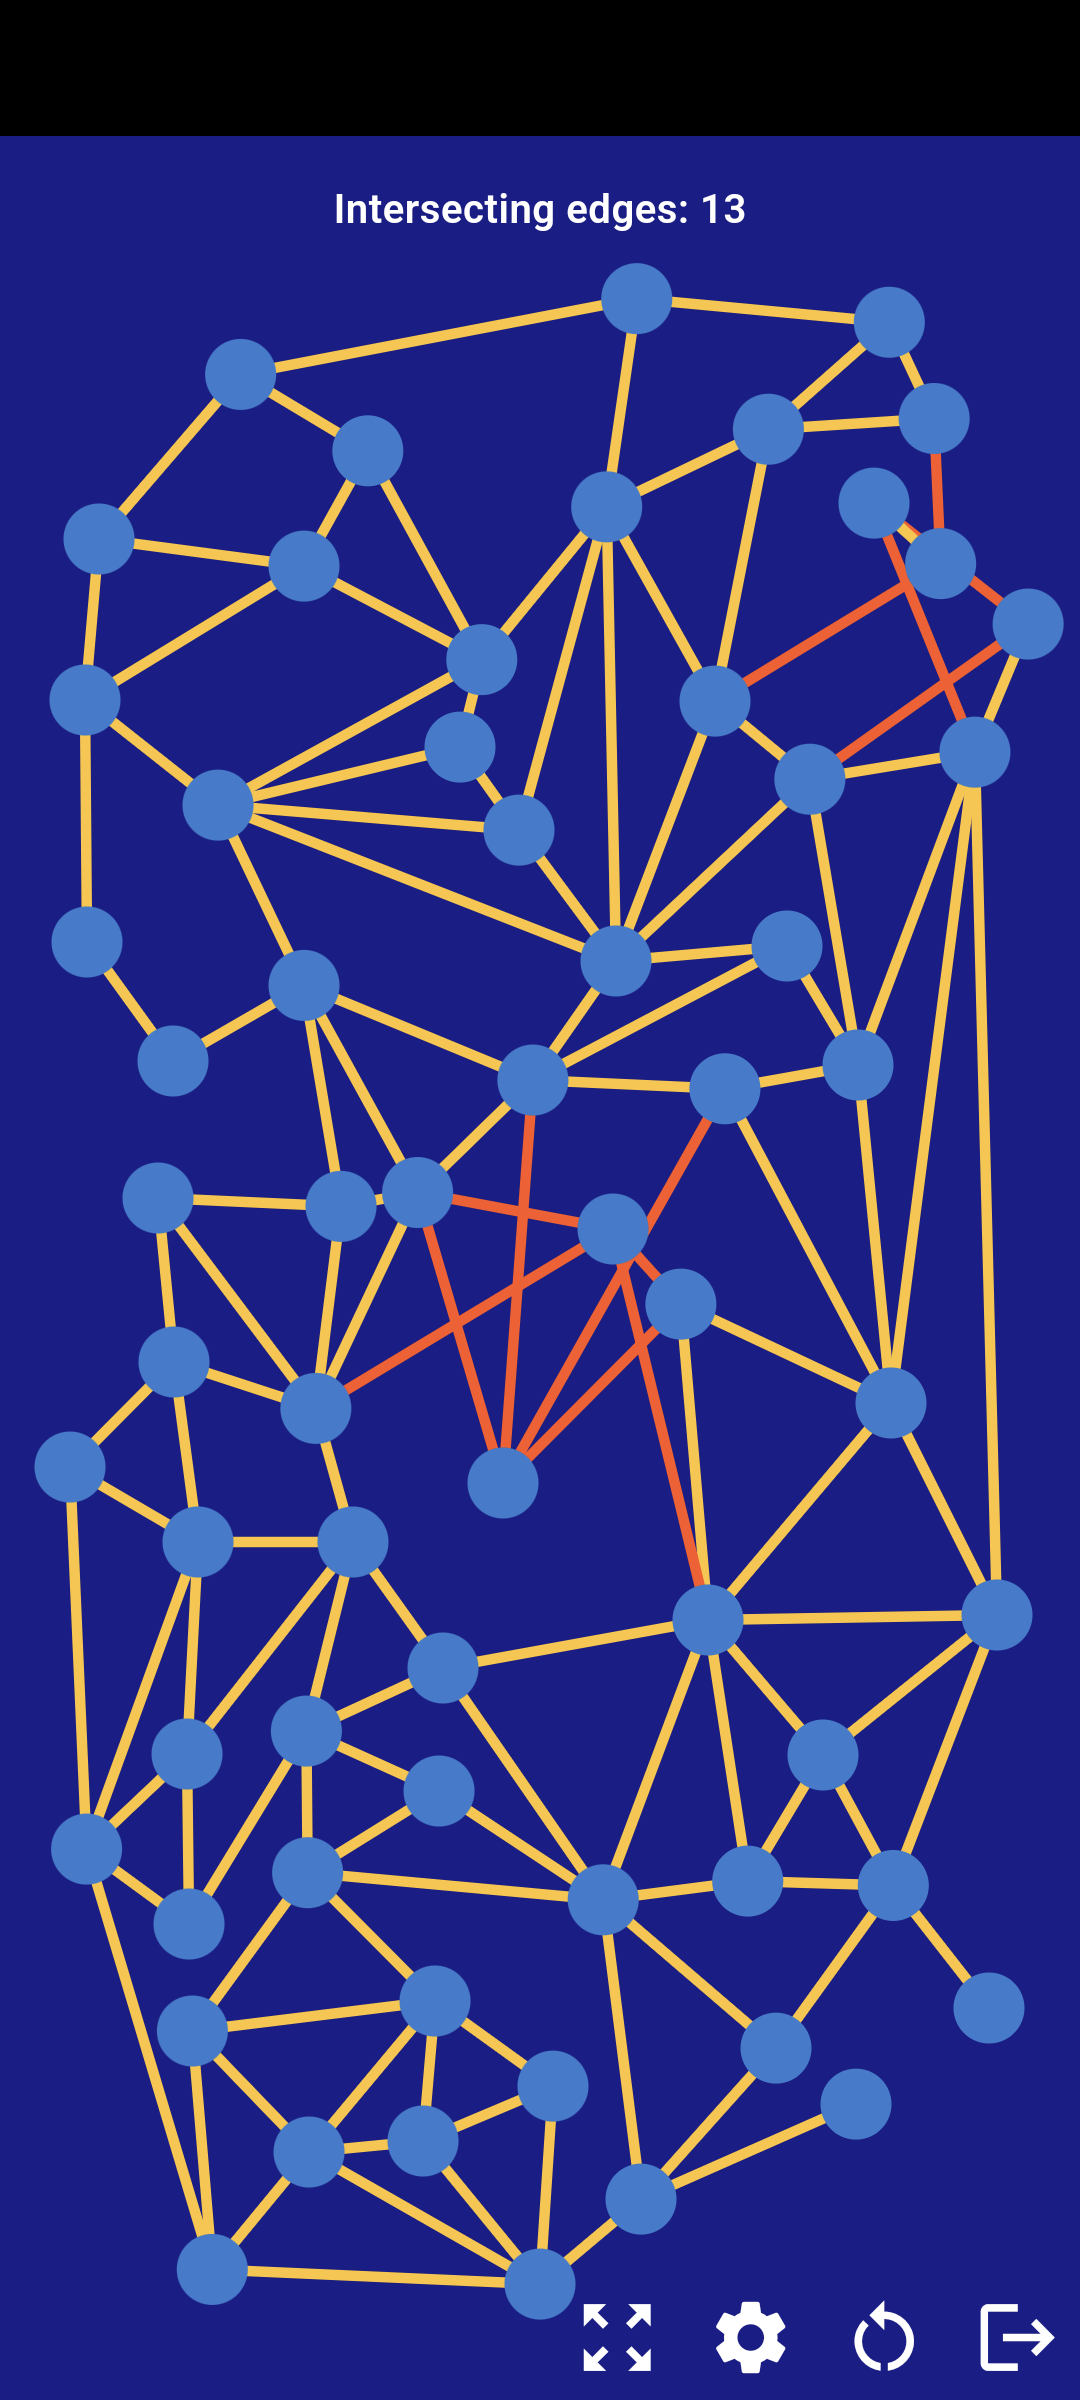
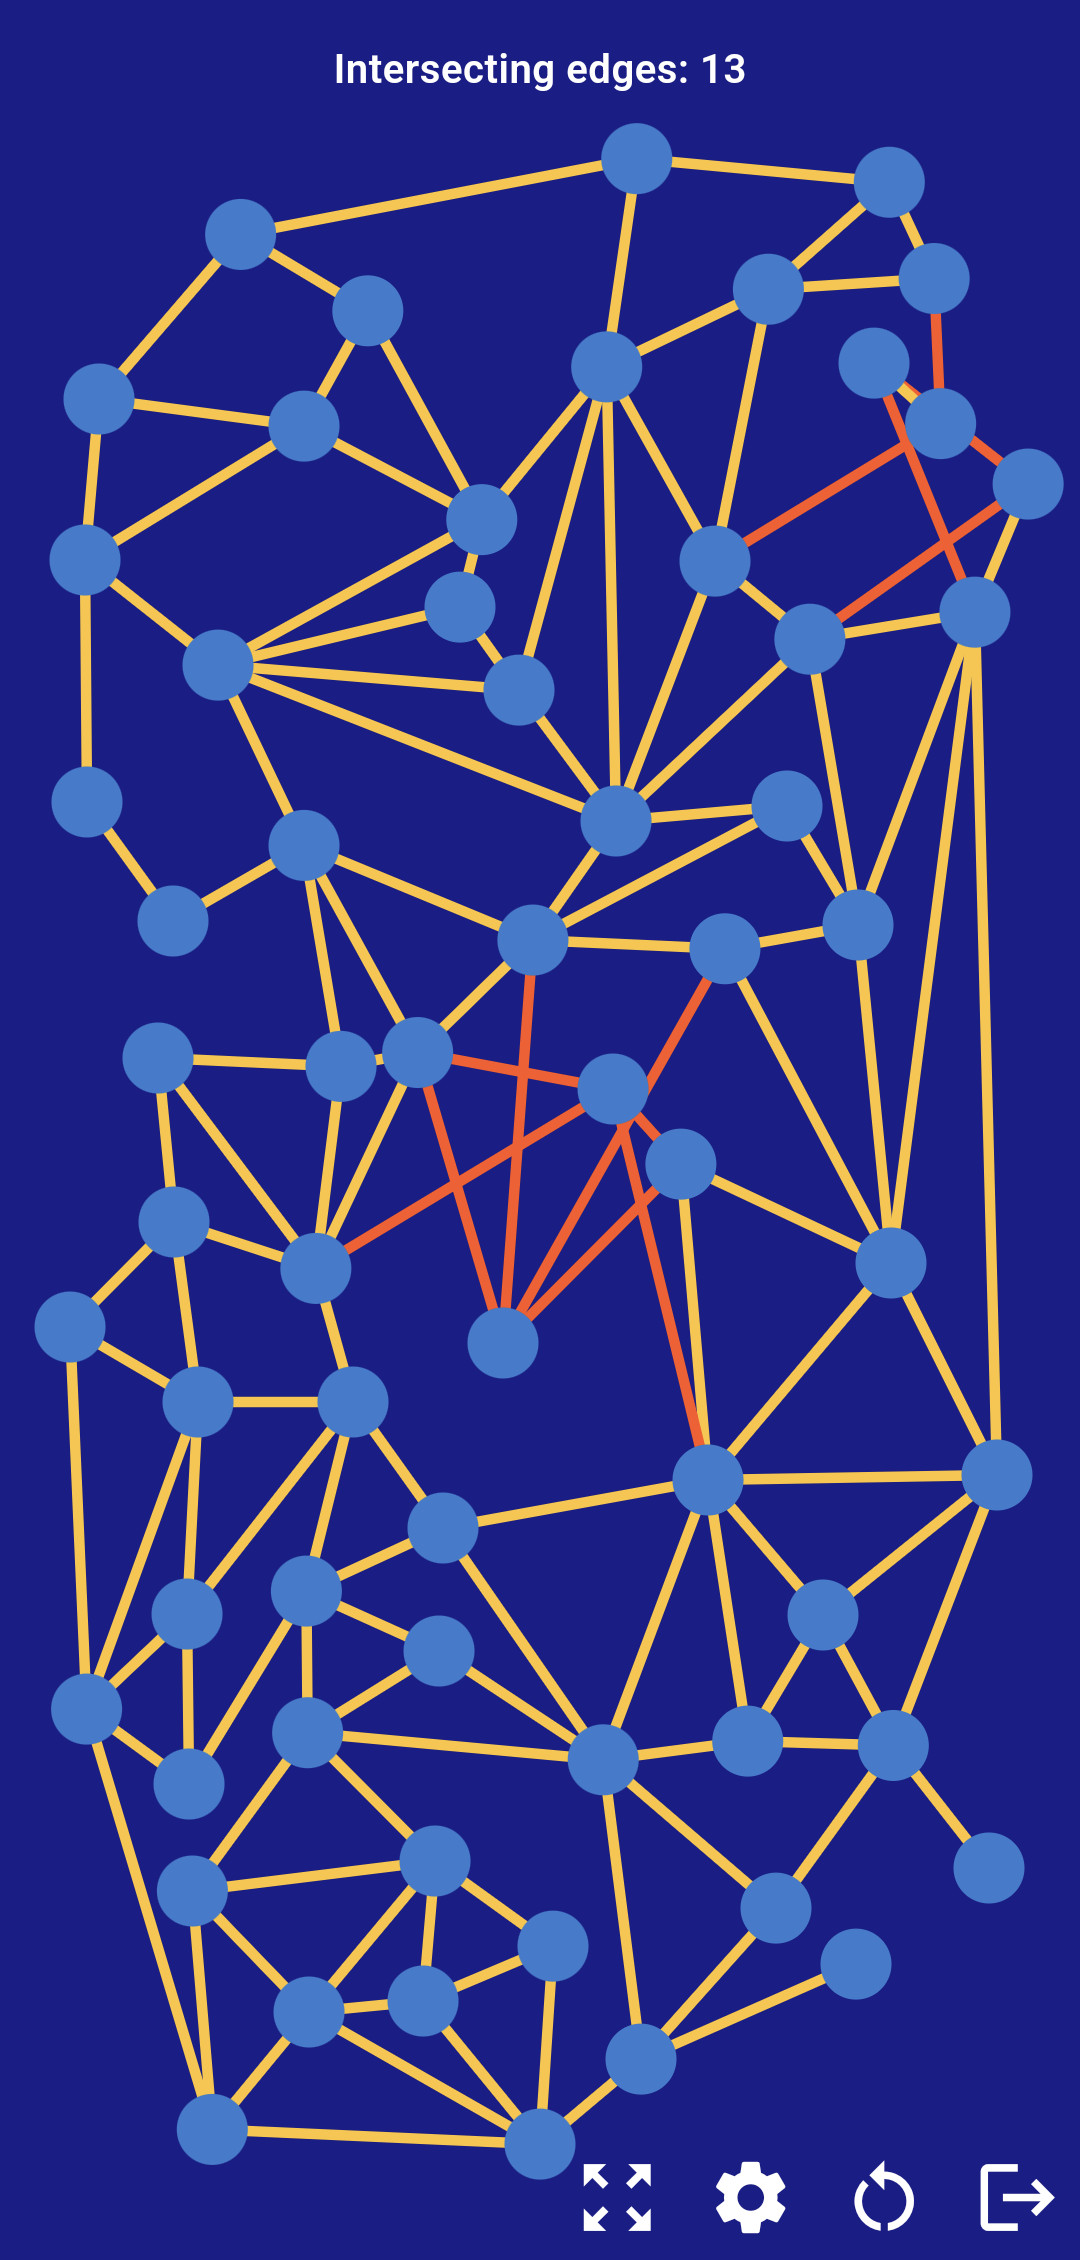
Add Word Quest & fix layout

diff --git a/index.html b/index.html
@@ -104,6 +104,25 @@
                         </a>
                     </div>
                 </div>
+				
+				<div class="project-item">
+                    <h1>Word Quest</h1>
+                    <a href='https://play.google.com/store/apps/details?id=com.marmot.studios.word_search'>
+                        <img src="img/words_scr.png" alt="graph planarizer" class="project-screenshot"> 
+                    </a>           
+                    <p>Infinitely replayable word search game.</p>
+                    <ul>
+                        <li>100 handcrafted levels, plus endless randomly generated levels</li>
+						<li>Hints system to get you unstuck</li>
+                        <li>Custom game mode with full control over grid size, puzzle difficulty, rules, and more.</li>
+                        
+                    </ul>
+                    <div>
+                        <a href='https://play.google.com/store/apps/details?id=com.marmot.studios.word_search'>
+                          <img width=180 alt='Get it on Google Play' src='https://play.google.com/intl/en_us/badges/static/images/badges/en_badge_web_generic.png'/>
+                        </a>
+                    </div>
+                </div>
             </div>
         </div>
     </section>

diff --git a/styles.css b/styles.css
@@ -73,14 +73,12 @@ header nav ul li a {
 }
 
 .projects .project-list {
-    display: flex;
-    flex-wrap: wrap;
+    display: grid;
+    grid-template-columns: repeat(auto-fill, minmax(300px, 1fr));
     gap: 2rem;
 }
 
 .projects .project-item {
-    flex: 1;
-    min-width: 250px;
     background-color: #f9f9f9;
     padding: 1rem;
     border: 1px solid #ddd;
@@ -98,7 +96,7 @@ header nav ul li a {
 }
 
 .projects .project-item img {
-    max-width: 60%;
+     max-width: 100%;
     border-radius: 4px;
 }
 
